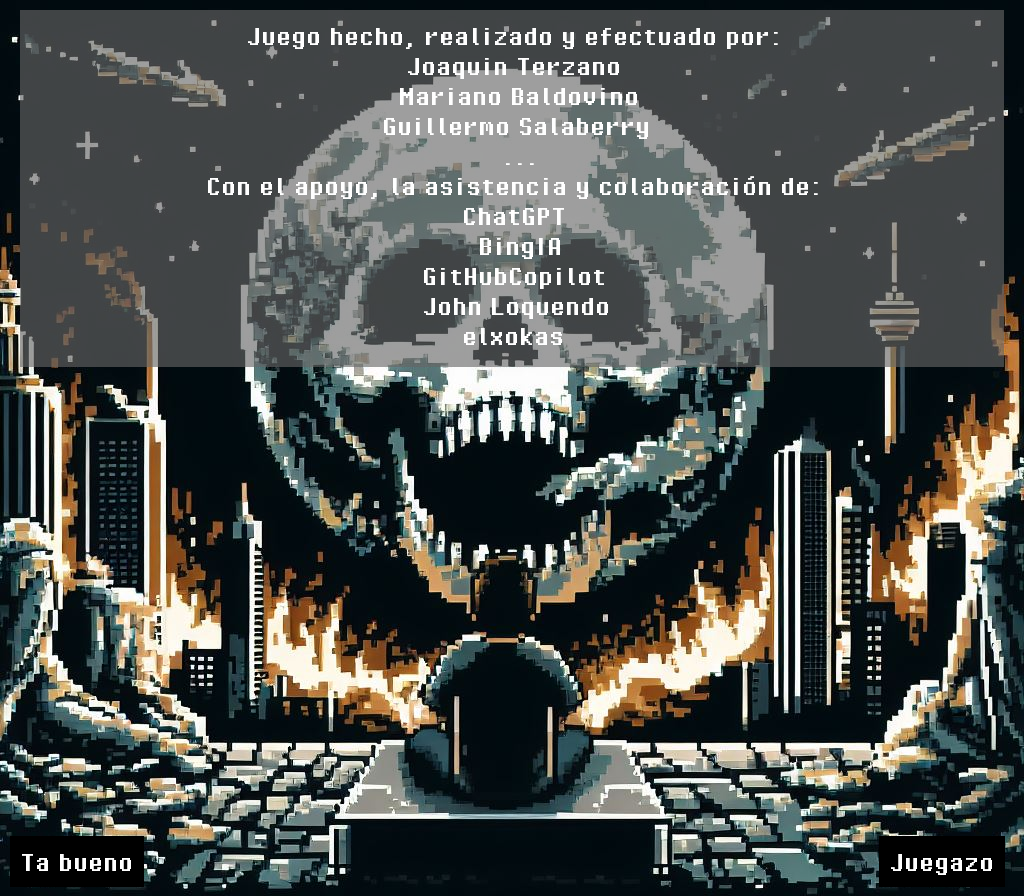
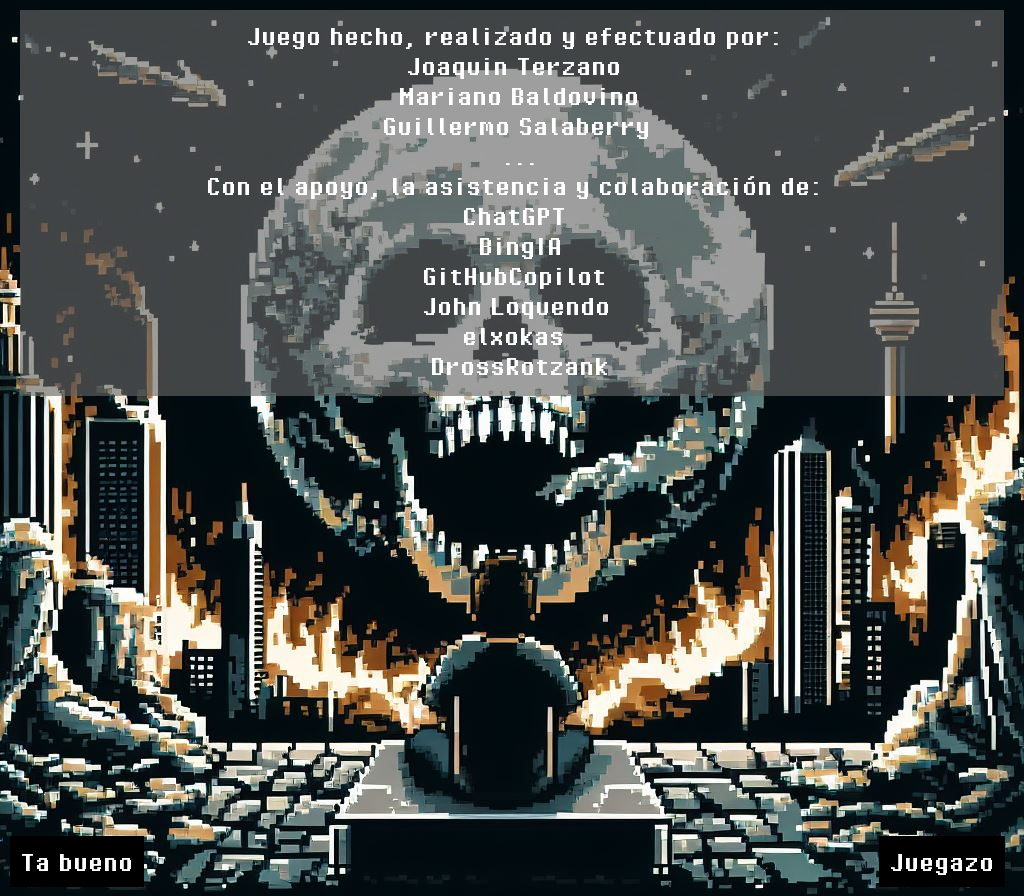
Doy contexto al minijuego

Changed region(s): [[0.0, 0.4062, 1.0, 0.4688]]

diff --git a/python-gen-images/narrativa.py b/python-gen-images/narrativa.py
@@ -123,6 +123,8 @@ lista = [
                          '...', '...', 'chad-integral.jfif', 'ejercicio-6'],
                         # ...
                   # ...
+                  ['Optas por continuar el desarrollo de tu videojuego en Wollok. Algo que en un principio parecía sencillo, pronto se convierte en una tarea desafiante. Cada línea de código parece estar rodeada de restricciones y obstáculos que dificultan la tarea. Wollok, aunque prometedora, se revela como un entorno de desarrollo complicado.\n¿Qué juego vas a hacer?',
+                   'Juego de mono', 'Aventura gráfica', 'compu.jfif', 'videojuego-3'],
             ['Decides que un poco de leche podría suavizar este café tan desagradable. Abres la heladera y agarras el sachet de leche. Te sorprende su peso, "no más de 11 gramos", estimas. Lo viertes sobre la taza de café y una única, mísera gota de leche cae sobre este. "¿Cómo puede ser?" te preguntas. "¿Quién se tomó toda la leche?"\nPero esta es tu casa y no hay nadie más que tú. ¿Por qué guardaste el sachet vacío en la heladera?',
              'Andá a saber...', '¡Yo no fuí!', 'heladera.jfif', 'leche'],
             ['Ese café no se puede tomar. Tienes que hacer algo.\nDecides añadir edulcorante. Al sostener la botella, se te eriza la piel y sientes un escalofrío recorriendo tu espalda. "No supera los 30 gramos", estimas. Un nudo en la garganta te hace sentir como si hubieras sido víctima de una broma cruel del destino. "Esto no puede estar pasando" piensas. Pero la realidad golpea con fuerza. La botella de edulcorante también está vacía.',
@@ -203,8 +205,8 @@ lista = [
                          'Aplicar la fórmula', 'Deducir el procedimiento', 'escritorio.jfif', 'no-abrir-puerta-3'],
                         ['De repente, una figura aterradora emerge ante tus ojos. ¿Monstruo? No, es tu profesor de Paradigmas de la Programación. Esta revelación no te consuela en absoluto, habrías preferido encontrarte con un fantasma. ¡¿Qué hace aquí el endemoniado profesor?!\nPoco importan ahora estas cuestiones, el puto susto es como recibir una descarga de 200 voltios directa al corazón. Tu cuerpo no aguanta la presión y, en cuestión de segundos, te desvaneces en la oscuridad de un desmayo repentino.',
                          '...', '...', 'profe-cara.jfif', 'no-abrir-puerta-4'],
-            ['Optas por continuar el desarrollo de tu videojuego en Wollok. Algo que en un principio parecía sencillo, pronto se convierte en una tarea desafiante. Cada línea de código parece estar rodeada de restricciones y obstáculos que dificultan la tarea. Wollok, aunque prometedora, se revela como un entorno de desarrollo complicado.',
-             'Banco Wollok', 'Odio Wollok', 'compu.jfif', 'videojuego-1'],
+            ['Optas por continuar el desarrollo de tu videojuego en Wollok. Algo que en un principio parecía sencillo, pronto se convierte en una tarea desafiante. Cada línea de código parece estar rodeada de restricciones y obstáculos que dificultan la tarea. Wollok, aunque prometedora, se revela como un entorno de desarrollo complicado.\n¿Qué juego vas a hacer?',
+             'Juego de mono', 'Juego de alien', 'compu.jfif', 'videojuego-1'],
             ['Tu obra comienza a tomar forma. El concepto de *un alien que atrapa autos* puede no parecer una idea brillante, pero cumple. Notas que tu juego necesita alguna dificultad. Entonces te planteas la pregunta: ¿cuál sería el enemigo perfecto para desafiar a este alien?',
              'Bombas', 'Ranas', 'alien-auto.jfif', 'videojuego-2'],
               ['Decides que las bombas son el enemigo ideal para cualquier juego. Trabajas arduamente en la implementación de estas amenazas explosivas. El mate, ya frío, no puede competir con la adrenalina de la creación.\nHasta que al fin, tu obra maestra cobra vida. El alien se mueve, los autos tiemplan y las bombas sonríen con malicia. El juego está listo para ser jugado.',
@@ -215,8 +217,6 @@ lista = [
                 # ...
          ['El agua hierve y la pava comienza a silbar en un alarde de energía térmica. Observas el vapor que sale de ella, preguntándote si, en realidad, estás a punto de preparar una bebida o de desencadenar un fenómeno meteorológico.\nEs hora de preparar el mate. Dejas caer el agua en su punto de ebullición normal sobre el mate e, instantáneamente, un estruendo sacude tus alrededores.\nNo obstante, con la permeabilidad de un suelo arcilloso, decides continuar con tus actividades rutinarias.',
           'Estudiar para el examen', 'Trabajar en tu proyecto', 'mate-quemao.jfif', 'mate-quemao'],
-          ['',
-           '...', '...', 'mate-quemao.jfif', 'mate-quemao'],
          ['La elección de quemar el mate parece haber desencadenado la furia de la naturaleza.',
           'Estudiar para el examen', 'Trabajar en tu proyecto', 'mate-quemao.jfif', 'mate-quemao'],
             # ...
@@ -241,6 +241,6 @@ lista = [
        '...', '...', 'profe-3.jfif', 'final-juego-8'],
       ['To be continued...',
        'Dale, no pasa nada', '¡Qué manga de vagos!', 'black.jpg', 'to-be-continued'],
-      ['Juego hecho, realizado y efectuado por:\nJoaquin Terzano\nMariano Baldovino\nGuillermo Salaberry\n...\nCon el apoyo, la asistencia y colaboración de:\nChatGPT\nBingIA\nGitHubCopilot\nJohn Loquendo\nelxokas',
+      ['Juego hecho, realizado y efectuado por:\nJoaquin Terzano\nMariano Baldovino\nGuillermo Salaberry\n...\nCon el apoyo, la asistencia y colaboración de:\nChatGPT\nBingIA\nGitHubCopilot\nJohn Loquendo\nelxokas\nDrossRotzank',
        'Ta bueno', 'Juegazo', 'end.jfif', 'creditos']
 ]
